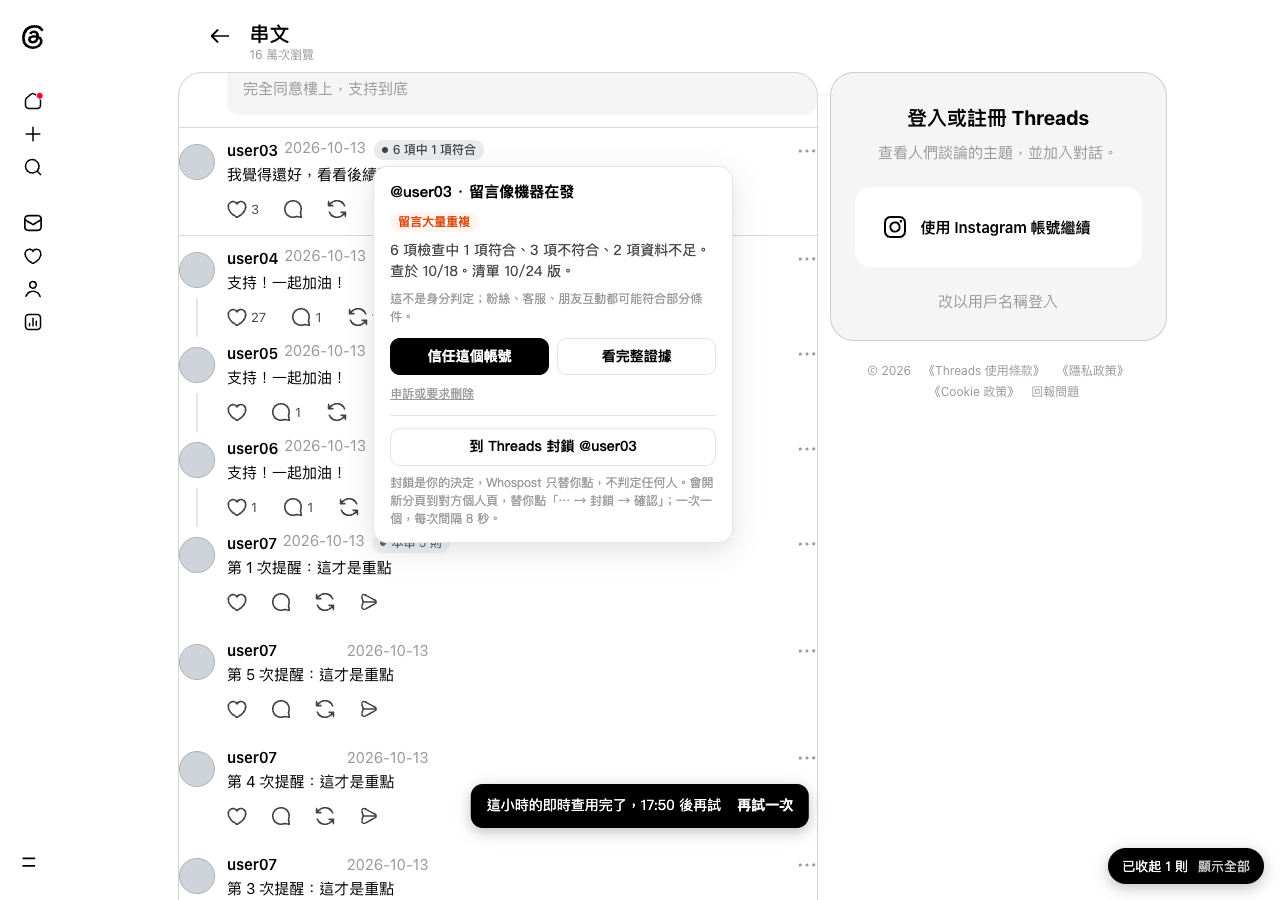
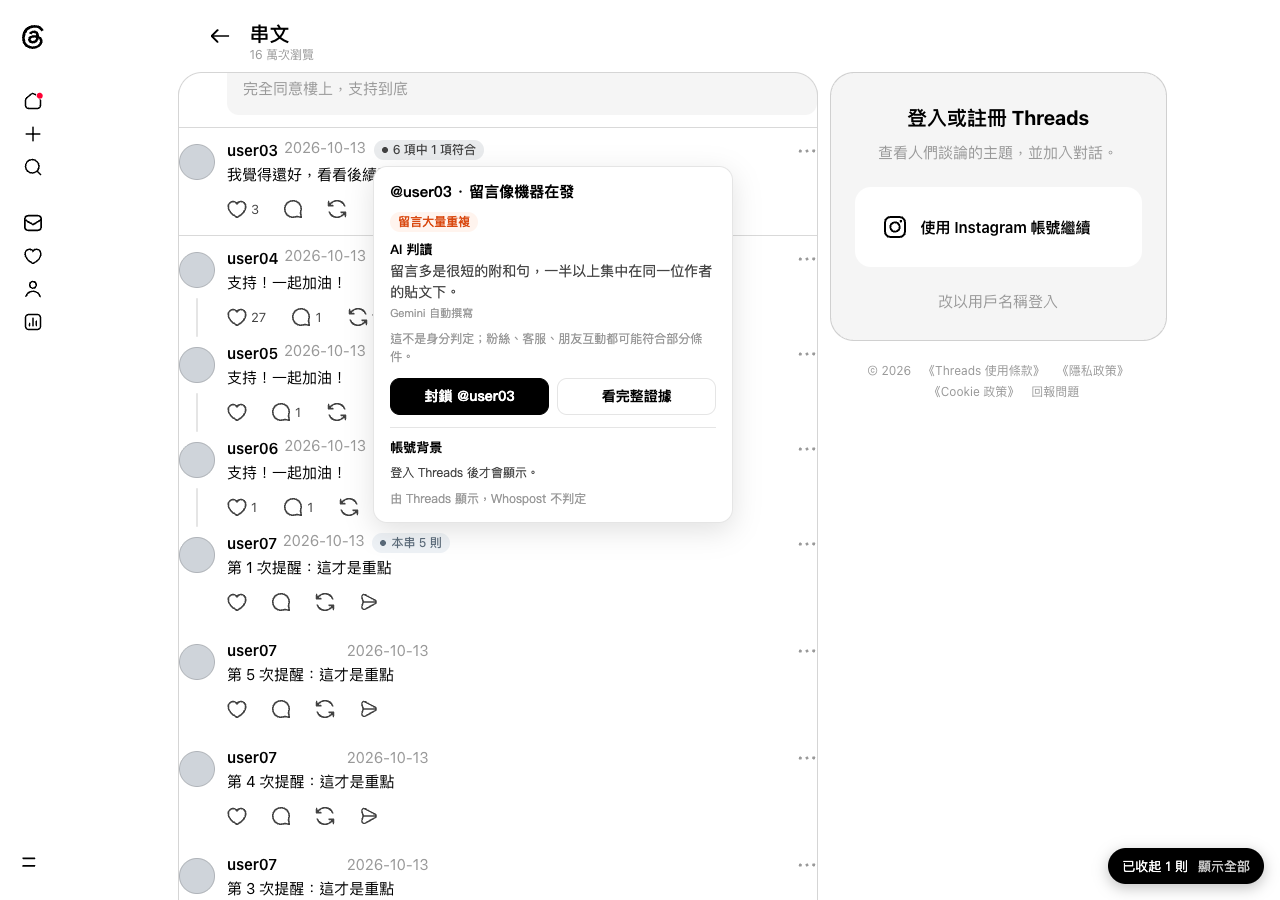
extension: 浮層照 Felix 10-24 標的五處改——統計行換成 AI 判讀（ai.summary＋「Gemini 自動撰寫」，沒有就不出現）、主按鈕「封鎖 @xx」＋「看完整證據」、拿掉信任按鈕與申訴連結、併掉獨立封鎖按鈕與說明段；重拍 screenshots-block 01、06
- 先 rebase 到 #66（060db95）之上：/api/health 的 extension 合成一個物件 {profileLookup, block}（extensionSwitches 帶上 extensionFlags）
- popoverModel 不再回 primary／deletion／統計 line；engine 的封鎖按鈕改成按鈕列第一顆，冷卻照舊變灰倒數；untrust 只服務浮層，一併拿掉
- e2e：單一帳號信任／復原改由「都信任」那段測；新增兩顆 CTA、AI 判讀、沒有信任與申訴的斷言（86 項全過）

Changed region(s): [[0.2812, 0.2489, 0.5625, 0.6222], [0.3438, 0.8711, 0.6562, 0.9333]]

diff --git a/extension/content.css b/extension/content.css
@@ -84,10 +84,13 @@ a:hover .whospost-live,.whospost-live:focus,.whospost-live:hover{opacity:1}
 .whospost-pop-bg-rows dd{margin:0;color:var(--whospost-muted-2);overflow-wrap:anywhere}
 .whospost-pop-bg-status,.whospost-pop-bg-new{margin:6px 0 0;color:var(--whospost-muted-2);font-size:12px;line-height:1.5}
 .whospost-pill-extra{margin-left:0;padding-left:10px;border-left:1px solid rgba(255,255,255,.3);color:rgba(255,255,255,.8);font-size:12px;white-space:nowrap}
-/* 封鎖助手 (EXTENSION-SPEC §4.5): the popover's last section (one button, greyed with a countdown during the 8-second
-   cooldown) and the bar on the profile tab where the clicks happen. */
-.whospost-pop-block{margin-top:12px;padding-top:12px;border-top:1px solid var(--whospost-border)}
-.whospost-btn-block{display:block;width:100%;color:var(--whospost-text)}
+/* The popover's AI review (Felix 10-24): a small heading, the summary, a smaller source line. */
+.whospost-pop-ai{margin:8px 0 4px}
+.whospost-pop-ai-title{margin:0 0 2px;color:var(--whospost-text);font-size:13px;font-weight:600}
+.whospost-pop-ai-text{margin:0;color:var(--whospost-muted-2)}
+.whospost-pop-ai-source{margin:2px 0 0;color:var(--whospost-muted);font-size:11px}
+/* 封鎖助手 (EXTENSION-SPEC §4.5): the popover's primary button (greyed with a countdown during the 8-second cooldown)
+   and the bar on the profile tab where the clicks happen. */
 .whospost-btn-block:disabled{color:var(--whospost-muted);background:var(--whospost-chip);border-color:var(--whospost-chip);cursor:not-allowed;filter:none}
 .whospost-blockbar{position:fixed;top:12px;left:50%;z-index:2147483001;transform:translateX(-50%);display:flex;flex-wrap:wrap;align-items:center;gap:4px 14px;max-width:min(92vw,620px);padding:12px 16px;border-radius:12px;background:#000;color:#fff;font-family:-apple-system,"PingFang TC","Noto Sans TC",system-ui,"Segoe UI",Roboto,sans-serif;font-weight:400;font-size:14px;line-height:1.45;box-shadow:0 4px 14px rgba(0,0,0,.25);box-sizing:border-box}
 .whospost-blockbar-msg{flex:1 1 280px;font-weight:600}

diff --git a/extension/content.js b/extension/content.js
@@ -1,7 +1,7 @@
 // Content script entry: a classic script that loads the ES-module engine from the extension's own files and wires it
 // to chrome.storage and the background script. Nothing here scrolls; the only requests to Threads are 帳號背景's two
 // reads per on-screen author (lib/profile-runner.mjs), sent with the user's own session and kept on this computer; the
-// only Threads buttons it ever presses are 「⋯ → 封鎖 → 確認」, on the profile tab a press of 「到 Threads 封鎖」 opened.
+// only Threads buttons it ever presses are 「⋯ → 封鎖 → 確認」, on the profile tab a press of 「封鎖 @xx」 opened.
 (async()=>{
  if(window.top!==window)return;
  const url=p=>chrome.runtime.getURL(p);
@@ -50,6 +50,6 @@
  });
  const engine=createEngine({storage,runtime});
  await engine.start();
- // A profile tab opened by a 「到 Threads 封鎖」 press does the clicking; any other page returns at once.
+ // A profile tab opened by a 「封鎖 @xx」 press does the clicking; any other page returns at once.
  try{const {runBlockPage}=await import(url('lib/block-page.mjs'));await runBlockPage({storage});}catch(e){console.warn('[whospost] block helper failed',e);}
 })();

diff --git a/extension/popup.html b/extension/popup.html
@@ -79,7 +79,7 @@
 </section>
 <section id="blockedSection">
  <h2>已封鎖 <span id="blockedCount" class="muted"></span></h2>
- <p class="muted">在浮層按「到 Threads 封鎖」並成功的帳號，Whospost 之後不再標、不再收起。清單只存在這台電腦，不會送出。封鎖是你的決定，Whospost 只替你點，不判定任何人。</p>
+ <p class="muted">在浮層按「封鎖 @帳號」並成功的帳號，Whospost 之後不再標、不再收起。清單只存在這台電腦，不會送出。封鎖是你的決定，Whospost 只替你點，不判定任何人。</p>
  <p class="muted" id="blockedNote" hidden></p>
  <ul id="blocked" class="trusted"><li class="muted">讀取中…</li></ul>
  <p class="muted">「移除」只是讓 Whospost 重新標這個帳號，不會在 Threads 解除封鎖；要解除請到 Threads 的設定。</p>

diff --git a/extension/README.md b/extension/README.md
@@ -8,12 +8,12 @@
 | **本串觀察** | 只讀眼前已載入的回覆，本機計算 | 否 | 同帳號 ≥5 則：灰藍晶片「本串 N 則」；≥10 則才收起；相同內容 ≥3 個帳號：晶片。**本串的標記只掛在該帳號在本串的第一則**（頁面順序最前的那則），後面同帳號的回覆不再重複出現晶片、不變淡、不收起（Felix 10-23） |
 | **即時查**（P2.5，規格 §4.3 路 B） | 沒在清單裡的帳號，使用者按了「即時查」才由擴充套件向 Whospost 後端 `POST /api/scans`（免 Turnstile：後端認這個擴充套件的 origin，`WHOSPOST_EXTENSION_IDS`；Origin 是客戶端自己填的，所以這條通道另有跨所有 IP 的全域上限 `EXT_SCAN_RATE_LIMITER`，每分鐘 5 次、只算真的會起跑的新查詢（已存結果、進行中的查詢不扣），超過回 429「即時查太頻繁，請稍後再試。」，擴充套件當一般失敗、可再試一次；沒綁 limiter 就是關閉），再輪詢 `GET /api/scans/:id` | 只在按下時送出那一個帳號名稱；每個安裝每小時最多 10 次（本機計數） | 晶片三態：**查詢中…**（灰、閃點，不擋滑動）→ **快篩 6 項中 N 項符合**（虛線框；後端只看了貼文與回覆頁第一頁，不收起、不變淡）→ 正式「6 項中 N 項符合」（≥3 照清單規則收起）或「查過、沒線索」／「查過、資料不足」；提示列「@xx 查好了」。**失敗＝回到「沒查過」**：沒有晶片、提示列說失敗並給「再試一次」，永遠不會顯示成 0 項 |
 
-- **晶片** 點了開浮層：一句結論（例「留言像機器在發」）→ 原因晶片 → 一行「6 項檢查中 4 項符合、1 項不符合、1 項資料不足。查於 M/D。」→ 一行免責 → 主按鈕「信任這個帳號」＋次按鈕「看完整證據」（開正式站分享頁）。
+- **晶片** 點了開浮層（Felix 10-24 版）：一句結論（例「留言像機器在發」）→ 原因晶片 → **AI 判讀**（清單那筆有 `ai.summary` 才出現，下面小字「Gemini 自動撰寫」；沒有就整段不出現）→ 一行免責 → 黑色主按鈕「封鎖 @xx」（封鎖助手開著時；見下）＋「看完整證據」（開正式站分享頁）。檢查統計與查詢日期、「信任這個帳號」、「申訴或要求刪除」都不在浮層了：統計與申訴在完整證據頁，信任走收起列的「都信任」，取消信任在彈出視窗的信任清單。沒查過、只有本串觀察的帳號照舊：本串說明一行＋「即時查」＋「到 Whospost 網站查」。
 - **收起列**「顯示」把整組展開成變淡＋晶片；「都信任」一次信任整組，不二次確認，靠提示列復原。
 - **提示列** 信任／都信任／顯示／顯示全部後跳底部黑色一行「已信任 @xx，之後不再收起 · 復原」，5 秒內可復原。
 - **右下角** 只在有收起時出現「已收起 N 則 · 顯示全部」；清單讀不到時（正式站目前 `WHOSPOST_LIST_ENABLED="0"` 回 404）是一行灰字「清單暫時無法讀取」，本串觀察與信任標記照常，**不會看起來像沒事**；Threads 版面變了就一顆紅藥丸「Threads 版面已變，等待更新」。
 - **即時查** 沒查過的帳號 hover 名字才出現一顆小按鈕「即時查」（取代原本的放大鏡），點了就在原地查（上表）；本串觀察晶片的浮層裡也有「即時查」按鈕，浮層下方仍留「到 Whospost 網站查」連結。查完的結果存在本機一小時（`chrome.storage.local.live`，只有雜湊、分數與 scanId），重新整理或另一個分頁都看得到；清單下一次更新後就由清單接手。彈出視窗那一行「這小時還可以即時查 N 次」就是本機計數。
-- 信任存在本機（`chrome.storage.local`）並送一次匿名申訴計數；取消信任從浮層按。
+- 信任存在本機（`chrome.storage.local`）並送一次匿名申訴計數；取消信任在彈出視窗的信任清單按「移除」。
 
 ### 帳號背景（0.2，規格 §4.4；0.1.0 送審版不含）
 
@@ -23,7 +23,7 @@
 - **開關**：彈出視窗「讀取帳號背景（需登入 Threads）」預設開，關掉清快取；遠端開關是 `/api/health` 的 `extension.profileLookup`（Worker 變數 `WHOSPOST_PROFILE_LOOKUP`，預設開、設 `"0"` 關），背景每小時讀一次。
 - **程式**：`lib/profile.mjs`（純函式：請求、解析、節流、快取、停機）、`lib/profile-runner.mjs`（content 端佇列）、`lib/profile-label.mjs`（文字），跟 `label.mjs` 分開放。
 
-- **封鎖助手**（P2.7，規格 §4.5、§10.3 #21；**0.1.0 送審版不含，0.2 再上**）：浮層最下面一顆「到 Threads 封鎖 @xx」，收起列與晶片上不放。按了把帳號寫進 `chrome.storage.local.blockIntent`（30 秒內有效、用一次就刪），用 `window.open` 開該帳號個人頁的新分頁（不用 `chrome.tabs`、權限不變；選新分頁是為了不打斷你正在滑的那串）；新分頁的 content script 讀到指令才替你點「⋯ → 封鎖 → 確認」（`lib/block.mjs`），每一步用結構選擇器找、要剛好一個，找不到就停在那裡、頂端紅條寫「Threads 版面已變，請自己按（停在：…）」，不猜、不重試、不再點別的。一次一個；按下與跑完都把 `blockCooldownUntil` 設成 8 秒後，所有分頁的封鎖按鈕一起變灰倒數；沒有批次、沒有內建名單、不做檢舉。成功後帳號進本機 `blocked`（只存本機、不回傳），之後狀態是 `blocked`：不標、不收起；彈出視窗「已封鎖」看數量與清單、可移除（移除不會在 Threads 解除封鎖）。遠端開關：background 每小時讀 `/api/health` 的 `extension.block`（worker 讀 `WHOSPOST_EXTENSION_BLOCK`，預設 `"1"`）存 `flags`；沒讀到過或是 `false` 按鈕就不出現。
+- **封鎖助手**（P2.7，規格 §4.5、§10.3 #21；**0.1.0 送審版不含，0.2 再上**）：浮層的黑色主按鈕「封鎖 @xx」（跟「看完整證據」並排；Felix 10-24 把原本獨立的按鈕與說明段併掉），收起列與晶片上不放；封鎖助手關著時浮層只剩「看完整證據」。按了把帳號寫進 `chrome.storage.local.blockIntent`（30 秒內有效、用一次就刪），用 `window.open` 開該帳號個人頁的新分頁（不用 `chrome.tabs`、權限不變；選新分頁是為了不打斷你正在滑的那串）；新分頁的 content script 讀到指令才替你點「⋯ → 封鎖 → 確認」（`lib/block.mjs`），每一步用結構選擇器找、要剛好一個，找不到就停在那裡、頂端紅條寫「Threads 版面已變，請自己按（停在：…）」，不猜、不重試、不再點別的。一次一個；按下與跑完都把 `blockCooldownUntil` 設成 8 秒後，所有分頁的封鎖按鈕一起變灰倒數；沒有批次、沒有內建名單、不做檢舉。成功後帳號進本機 `blocked`（只存本機、不回傳），之後狀態是 `blocked`：不標、不收起；彈出視窗「已封鎖」看數量與清單、可移除（移除不會在 Threads 解除封鎖）。遠端開關：background 每小時讀 `/api/health` 的 `extension.block`（worker 讀 `WHOSPOST_EXTENSION_BLOCK`，預設 `"1"`）存 `flags`；沒讀到過或是 `false` 按鈕就不出現。
 - **回報貢獻**（P2，彈出視窗可關，預設開）：每個貼文頁把「看了幾頁、比對幾個帳號、幾個在清單上、幾個被標、本串觀察幾個、收起幾則、按了幾次信任」累進本機當天（台北時間）的一筆；換天後第一次開 Threads 頁時，前一天那筆以 `POST /api/list/v1/telemetry` 送出（只帶 `kind`、版本號、日期、七個數字），然後歸零。健康檢查判定「版面已變」時另送一次 `dom_broken`（版本號＋日期），一天最多一次。不含帳號、雜湊、網址、安裝 ID；關掉時本機累計一併清掉。彈出視窗那一行「今天累計：…」就是會送出的內容。伺服器端只存按（日期、版本、種類）加總的列（`ext_telemetry` 表，進每日備份），看法：`POST /api/admin/ext-telemetry`（Bearer `ADMIN_TOKEN`，body `{"days":14}`）。
 
 ## 載入

diff --git a/extension/docs/screenshots-block/README.md b/extension/docs/screenshots-block/README.md
@@ -6,14 +6,16 @@
 - **fixture／模擬**：`node tests/extension/e2e/run.mjs --fixture` 跑出來的。Playwright 的 Chromium 真的載入了 `extension/`，貼文頁是存下來的 Threads 未登入頁（帳號換成 user01…），個人頁是照 10-24 實測結構手寫的 `tests/extension/e2e/fixture/profile.html`。擴充套件的行為是真的，Threads 的頁面是假的。
 - **未驗證**：沒有截到或沒驗過的畫面。
 
+01、06 是 10-24 晚上照 Felix 標的五處改完浮層後重拍的；02–05、07 不含浮層，沒變。
+
 | # | 檔案 | 畫面 | 來源 |
 |---|---|---|---|
-| 1 | `01-button-in-popover.png` | 封鎖按鈕的位置：點名字旁的晶片打開浮層，最下面一段是「到 Threads 封鎖 @user03」，下面一行「封鎖是你的決定，Whospost 只替你點，不判定任何人。會開新分頁到對方個人頁……一次一個，每次間隔 8 秒。」收起列、晶片上都沒有這顆按鈕。（底部那條「這小時的即時查用完了」是 e2e 前一段測即時查上限留下的，跟封鎖無關。） | fixture／模擬 |
+| 1 | `01-button-in-popover.png` | 封鎖按鈕的位置（Felix 10-24 改版後）：點名字旁的晶片打開浮層。由上到下：標題「@user03 · 留言像機器在發」、原因晶片「留言大量重複」、**AI 判讀**（清單那筆的 `ai.summary`，下面小字「Gemini 自動撰寫」；沒有 AI 判讀的帳號這段不出現）、「這不是身分判定…」，然後兩顆按鈕：左邊黑色「封鎖 @user03」、右邊「看完整證據」。檢查統計與日期、「信任這個帳號」、「申訴或要求刪除」、獨立的封鎖按鈕與封鎖說明段都拿掉了。最下面「帳號背景」那段是 #66 的功能（fixture 是未登入頁，所以寫「登入 Threads 後才會顯示」）。收起列、晶片上都沒有封鎖按鈕。 | fixture／模擬（AI 判讀的文字是 fixture 自己填的假摘要） |
 | 2 | `02-running-menu-open.png` | 封鎖中：新分頁打開對方個人頁後，頂端黑條「Whospost 正替你封鎖 @zuck：⋯ → 封鎖 → 確認」，已替你按了頭像旁的 ⋯，選單最後一組第一項是 Block。 | 真 threads.com 登入頁面驗過（注入執行，見上；只點到 ⋯） |
 | 3 | `03-confirm-dialog.png` | 確認步驟：替你點了選單的 Block，Threads 跳出「Block zuck?」確認視窗。擴充套件下一步會按右邊的 Block；**這張截完就按了 Cancel，沒有封鎖**。 | 真 threads.com 登入頁面驗過（注入執行；停在確認前） |
 | 4 | `04-done.png` | 完成：確認視窗關上，頂端條「已封鎖 @zuck。Whospost 之後不再標它；要解除請到 Threads 的設定。」Threads 頁面的 Follow 變成 Unblock、貼文變「Content not available」。 | 真 threads.com 登入頁面驗過（10-24 Felix 授權那一次實際封鎖，截完立刻解除，已確認回到 Follow） |
 | 5 | `05-failed-layout-changed.png` | 失敗：⋯ 選單裡沒有 Block（模擬 Threads 改版），停在第二步，紅條「Threads 版面已變，請自己按（停在：「⋯」選單裡找不到「封鎖」）。Whospost 沒有再點任何東西。」選單留著讓你自己按；帳號不會進已封鎖清單。 | fixture／模擬 |
-| 6 | `06-cooldown.png` | 冷卻：按下後回到原本的貼文頁，浮層的按鈕變灰「8 秒後才能再封鎖」並倒數，底部提示「已開新分頁到 @user03 的個人頁，Whospost 正替你點封鎖」。8 秒內所有分頁的封鎖按鈕都是灰的，按了也不會開。 | fixture／模擬 |
+| 6 | `06-cooldown.png` | 冷卻：按下「封鎖 @user03」後回到原本的貼文頁，同一顆按鈕變灰「8 秒後才能再封鎖」並倒數，「看完整證據」照常；底部提示「已開新分頁到 @user03 的個人頁，Whospost 正替你點封鎖」。8 秒內所有分頁的封鎖按鈕都是灰的，按了也不會開。 | fixture／模擬 |
 | 7 | `07-popup-blocked-list.png` | 彈出視窗「已封鎖 1 個」：帳號清單、移除；說明「清單只存在這台電腦，不會送出」「移除只是讓 Whospost 重新標這個帳號，不會在 Threads 解除封鎖」。 | fixture／模擬 |
 
 ## 未驗證
@@ -23,5 +25,6 @@
 - **真站上的失敗畫面**（5）：真的 Threads 選單沒壞，沒辦法在真站重現；邏輯在單元測試與 fixture 驗過。
 - **中文介面**：真站只在英文介面驗過；中文的「封鎖／解除封鎖」字樣來自參考腳本 threads-report-block，沒在中文介面實測。
 - **深色模式、手機寬度**：沒截。
+- **新浮層在真站的樣子**：01、06 只在 fixture；AI 判讀的真實文字長度（最多 200 字）在真站浮層裡的排版沒看過。
 
 截完第 2、3 張之後已確認 @zuck 沒被封鎖（確認視窗關掉、按鈕仍是 Follow）。之後不再用 Felix 的真帳號對任何人封鎖。

diff --git a/extension/store/listing.en.md b/extension/store/listing.en.md
@@ -68,8 +68,12 @@ Social & Communication
 
 Replacement line:
 
-- It presses a Threads button for you only when you ask it to block: press "Block @account on Threads" in the popover and it opens that profile and clicks Threads' own "⋯ → Block → Block" for you. It never follows, likes or reports, and never changes the text of a reply.
+- It presses a Threads button for you only when you ask it to block: press "Block @account" in the popover and it opens that profile and clicks Threads' own "⋯ → Block → Block" for you. It never follows, likes or reports, and never changes the text of a reply.
 
 New paragraph:
 
-Block helper. The popover you open from a chip ends with one "Block @account on Threads" button. Blocking is your decision; Whospost only clicks for you and judges no one. One account per press, every block button greys out with a countdown for 8 seconds after a press, there is no "block all" and no built-in list. If any step of Threads' menu is not where it was, the helper stops there and says "Threads changed its layout, please press it yourself" — no guessing, no retry. Accounts you blocked this way are remembered on your computer only, are no longer marked or folded, and can be seen and removed in the popup. It does not report anyone.
+Block helper. The popover you open from a chip has "Block @account" as its main button. Blocking is your decision; Whospost only clicks for you and judges no one. One account per press, every block button greys out with a countdown for 8 seconds after a press, there is no "block all" and no built-in list. If any step of Threads' menu is not where it was, the helper stops there and says "Threads changed its layout, please press it yourself" — no guessing, no retry. Accounts you blocked this way are remembered on your computer only, are no longer marked or folded, and can be seen and removed in the popup. It does not report anyone.
+
+In item 2, replace "Click the chip for the reasons, the numbers and the date of the check." (the end of that item) with:
+
+Click the chip for the reasons; for accounts Whospost has an AI review of, the popover adds an "AI review" part (written automatically by Gemini). The check counts and the date are on the "See full evidence" page.

diff --git a/extension/store/listing.zh-TW.md b/extension/store/listing.zh-TW.md
@@ -80,8 +80,12 @@ Whospost 留言線索
 
 「它不做的事」第二條改成：
 
-- 只在你按下時替你點封鎖：在浮層按「到 Threads 封鎖 @帳號」，擴充套件才會開那個帳號的個人頁，替你點 Threads 自己的「⋯ → 封鎖 → 確認」。其他 Threads 按鈕（追蹤、讚、檢舉）都不碰，也不改你看到的回覆內容。
+- 只在你按下時替你點封鎖：在浮層按「封鎖 @帳號」，擴充套件才會開那個帳號的個人頁，替你點 Threads 自己的「⋯ → 封鎖 → 確認」。其他 Threads 按鈕（追蹤、讚、檢舉）都不碰，也不改你看到的回覆內容。
 
 「它在畫面上做三件事」加第 4 點：
 
-4. 封鎖助手。點晶片打開的浮層最下面有一顆「到 Threads 封鎖 @帳號」。封鎖是你的決定，Whospost 只替你點，不判定任何人。一次只處理一個帳號，按過後 8 秒內所有封鎖按鈕變灰並倒數；沒有「全部封鎖」，也沒有內建名單。Threads 的選單只要有一步找不到，就停在那裡、顯示「Threads 版面已變，請自己按」，不猜也不重試。成功封鎖的帳號只記在你的電腦，之後不再標、不再收起，彈出視窗可以看與移除。不做檢舉。
+4. 封鎖助手。點晶片打開的浮層，主按鈕是「封鎖 @帳號」。封鎖是你的決定，Whospost 只替你點，不判定任何人。一次只處理一個帳號，按過後 8 秒內所有封鎖按鈕變灰並倒數；沒有「全部封鎖」，也沒有內建名單。Threads 的選單只要有一步找不到，就停在那裡、顯示「Threads 版面已變，請自己按」，不猜也不重試。成功封鎖的帳號只記在你的電腦，之後不再標、不再收起，彈出視窗可以看與移除。不做檢舉。
+
+「它在畫面上做三件事」第 2 點最後一句「點晶片才看原因、數字與查詢日期。」改成：
+
+點晶片才看原因；Whospost 有 AI 判讀的帳號，浮層會多一段「AI 判讀」（由 Gemini 自動撰寫）。檢查的數字與查詢日期在「看完整證據」那頁。
